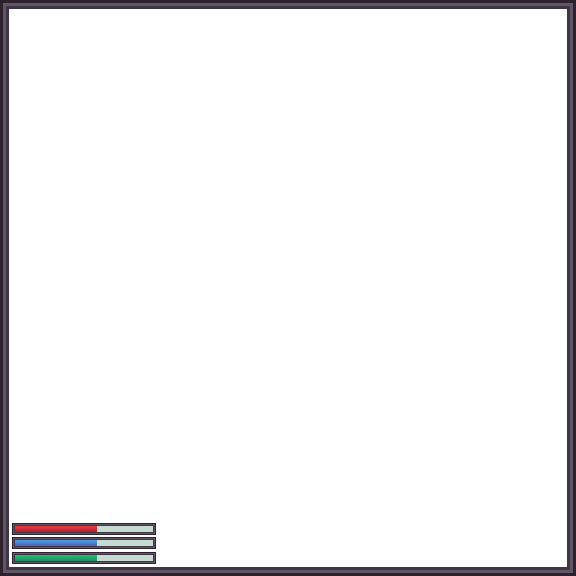
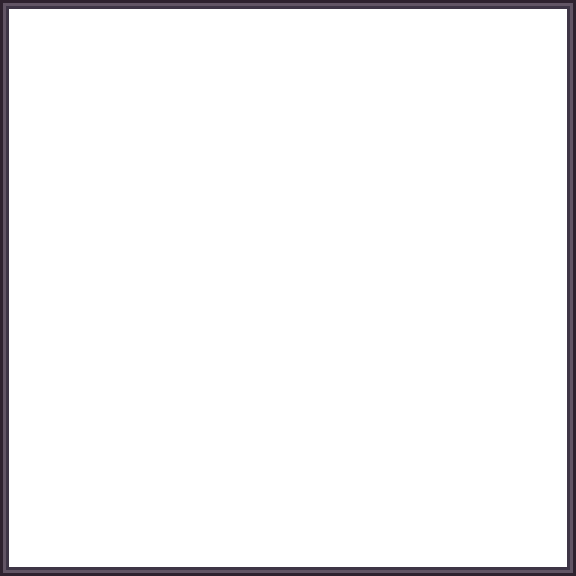
Made Health, Magic and Experience bars dynamic

Changed region(s): [[0.0, 0.9062, 0.2812, 1.0]]

diff --git a/client/src/scripts/objects/labelledBar.ts b/client/src/scripts/objects/labelledBar.ts
@@ -1,0 +1,79 @@
+import { MainScene } from "../scenes";
+
+export interface LabelledBarDataSource {
+    health: { current: number, max: number },
+    magic: { current: number, max: number },
+    experience: { current: number, max: number, level: number },
+}
+
+export enum LabelledBarType {
+    Health,
+    Magic,
+    Experience
+}
+
+const textForType = (type: LabelledBarType, data: LabelledBarDataSource) => {
+    switch (type) {
+        case LabelledBarType.Health: return `${data.health.current}/${data.health.max}`;
+        case LabelledBarType.Magic: return `${data.magic.current}/${data.magic.max}`;
+        case LabelledBarType.Experience: return `${data.experience.level} (${data.experience.current}/${data.experience.max})`;
+    }
+}
+
+export default class LabelledBar extends Phaser.GameObjects.Graphics {
+    labelledBarType: LabelledBarType;
+    label: Phaser.GameObjects.Text
+
+    constructor(scene: MainScene, x: number, y: number, type: LabelledBarType, dataSource: LabelledBarDataSource) {
+        super(scene, { x, y });
+
+        this.labelledBarType = type;
+
+        const background = this.scene.add.graphics({ x, y });
+        background.fillStyle(0x3e3546);
+        background.fillRect(0, 0, 155, 18);
+
+        scene.add.existing(this);
+
+        this.label = scene.add.text(x + 3, y + 6, textForType(type, dataSource), { color: '#ffffff', fontSize: '8px', fontFamily: "'Press Start 2P'" })
+            .setOrigin(0, 0);
+
+        const border = this.scene.add.graphics({ x, y });
+        border.lineStyle(1, 0x2e222f);
+        border.strokeRect(0, 0, 155, 18);
+        border.lineStyle(1, 0x625565);
+        border.strokeRect(1, 1, 153, 16);
+        border.lineStyle(1, 0x3e3546);
+        border.strokeRect(2, 2, 151, 14);
+
+        scene.cameras.main.ignore([this, this.label, border, background]);
+
+        switch (this.labelledBarType) {
+            case LabelledBarType.Health:
+                this.fillGradientStyle(0xEF3B3C, 0xEF3B3C, 0xAF2434, 0xAF2434, 1);
+                break;
+            case LabelledBarType.Magic:
+                this.fillGradientStyle(0X4D9AE4, 0X4D9AE4, 0x4D67B6, 0x4D67B6, 1);
+                break;
+            case LabelledBarType.Experience:
+                this.fillGradientStyle(0X1FBA73, 0X1FBA73, 0X229165, 0X229165, 1);
+                break;
+        }
+        this.fillRect(0, 0, 155, 18);
+    }
+
+    onDataSourceUpdated(dataSource: LabelledBarDataSource) {
+        this.label.setText(textForType(this.labelledBarType, dataSource));
+        switch (this.labelledBarType) {
+            case LabelledBarType.Health:
+                this.setScale(dataSource.health.current / dataSource.health.max, 1);
+                break;
+            case LabelledBarType.Magic:
+                this.setScale(dataSource.magic.current / dataSource.magic.max, 1);
+                break;
+            case LabelledBarType.Experience:
+                this.setScale(dataSource.experience.current / dataSource.experience.max, 1);
+                break;
+        }
+    }
+}

diff --git a/client/src/scripts/scenes/mainScene.ts b/client/src/scripts/scenes/mainScene.ts
@@ -18,6 +18,7 @@ import { TileMap } from '../../models/wrath-of-toldir/maps/tile-map';
 import { DebugText, PlayerCharacter } from '../objects/';
 import ActionButton, { ActionButtonSelected, ActionButtonType } from "../objects/actionButton";
 import ChatDialog from '../objects/chatDialog';
+import LabelledBar, { LabelledBarDataSource, LabelledBarType } from "../objects/labelledBar";
 import Monster from '../objects/monster';
 import { keyForElevation, normalisedFacingDirection, WalkingAnimatable } from '../objects/playerCharacter';
 import Weapon from '../objects/weapon';
@@ -63,6 +64,9 @@ export default class MainScene extends Phaser.Scene {
   actionButton1: ActionButton;
   actionButton2: ActionButton;
   actionButton3: ActionButton;
+  healthBar: LabelledBar;
+  magicBar: LabelledBar;
+  experienceBar: LabelledBar;
 
   constructor() {
     super({ key: 'MainScene' });
@@ -129,6 +133,25 @@ export default class MainScene extends Phaser.Scene {
     this.actionButton1 = new ActionButton(this, 425, 567, ActionButtonType.NormalAttack).setSelected(true).on(ActionButtonSelected, () => onActionButtonSelected(0));
     this.actionButton2 = new ActionButton(this, 474, 567, ActionButtonType.MagicAttack).setSelected(false).on(ActionButtonSelected, () => onActionButtonSelected(1));
     this.actionButton3 = new ActionButton(this, 523, 567, ActionButtonType.Potion).setSelected(false).on(ActionButtonSelected, () => onActionButtonSelected(2));
+
+    const ds: LabelledBarDataSource = {
+      health: { current: 50, max: 50 },
+      magic: { current: 20, max: 20 },
+      experience: { current: 210, max: 1000, level: 1 },
+    };
+
+    this.healthBar = new LabelledBar(this, 12, 504, LabelledBarType.Health, ds);
+    this.magicBar = new LabelledBar(this, 12, 525, LabelledBarType.Magic, ds);
+    this.experienceBar = new LabelledBar(this, 12, 546, LabelledBarType.Experience, ds);
+
+    // TODO: remove this
+    ds.health.current = Math.ceil(Math.random() * ds.health.max);
+    ds.magic.current = Math.ceil(Math.random() * ds.magic.max);
+    ds.experience.current = Math.ceil(Math.random() * ds.experience.max);
+    this.healthBar.onDataSourceUpdated(ds);
+    this.magicBar.onDataSourceUpdated(ds);
+    this.experienceBar.onDataSourceUpdated(ds);
+    // TODO: end remove this
 
     this.chatOverlay = new ChatDialog(this, this.onTextEntered.bind(this));
 

diff --git a/README.md b/README.md
@@ -4,7 +4,6 @@ A very simple MMORPG with the aim of learning more about Cloudflare's applicatio
 
 ## TODO List
 
-- [ ] HUD - switch between physical and magical attack (numbers 1, 2, 3)
 - [ ] Interact with objects / friendly NPCs
 - [ ] Quests
 - [ ] Character should gain/lose health/mana/experience
@@ -17,6 +16,9 @@ A very simple MMORPG with the aim of learning more about Cloudflare's applicatio
 - [ ] Item system should hold inventory
 - [ ] Loot items
 - [ ] Water should be animated
+- [ ] Fishing
+- [ ] Crafting
+- [X] HUD - switch between physical and magical attack (numbers 1, 2, 3)
 - [X] Simple mobile controls using a virtual joystick
 - [X] Attacks should kill NPC
 - [X] Chat bubbles
